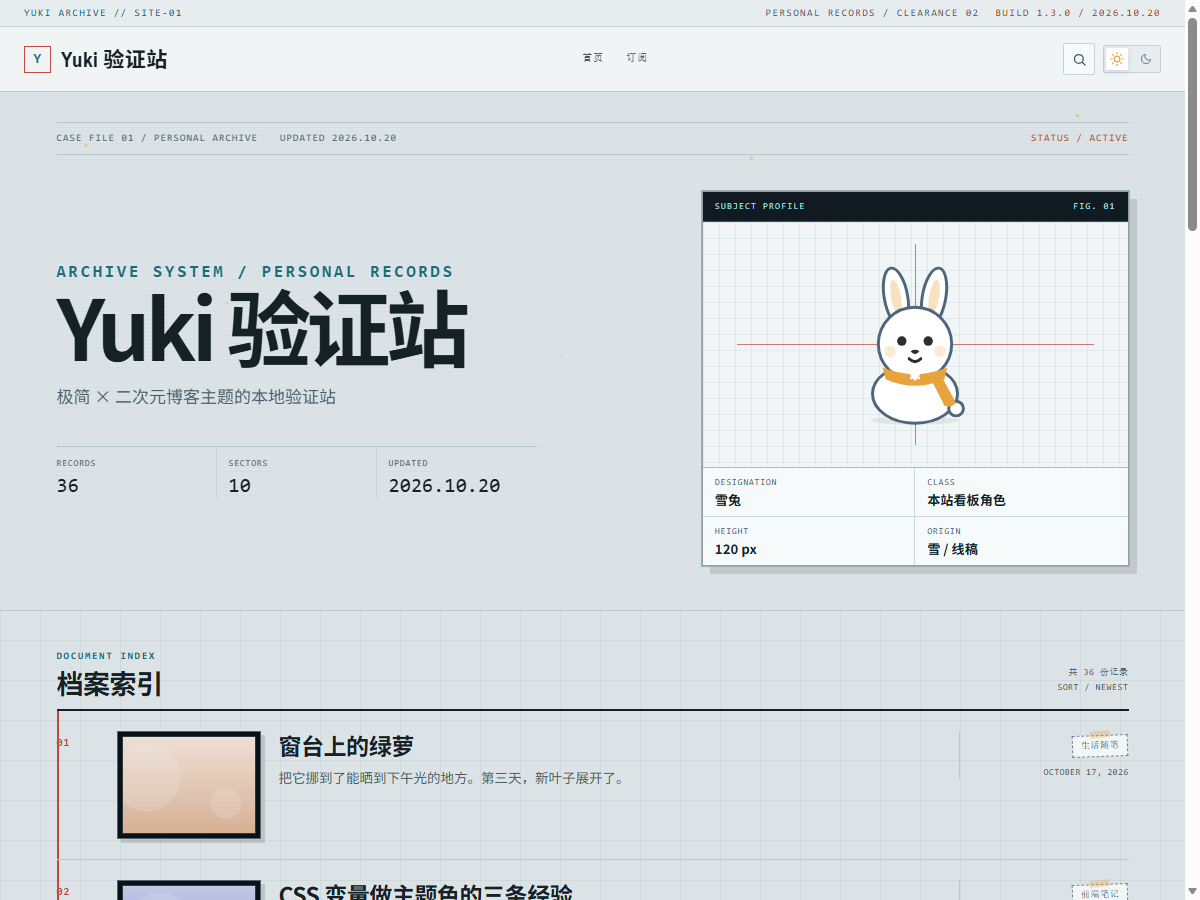
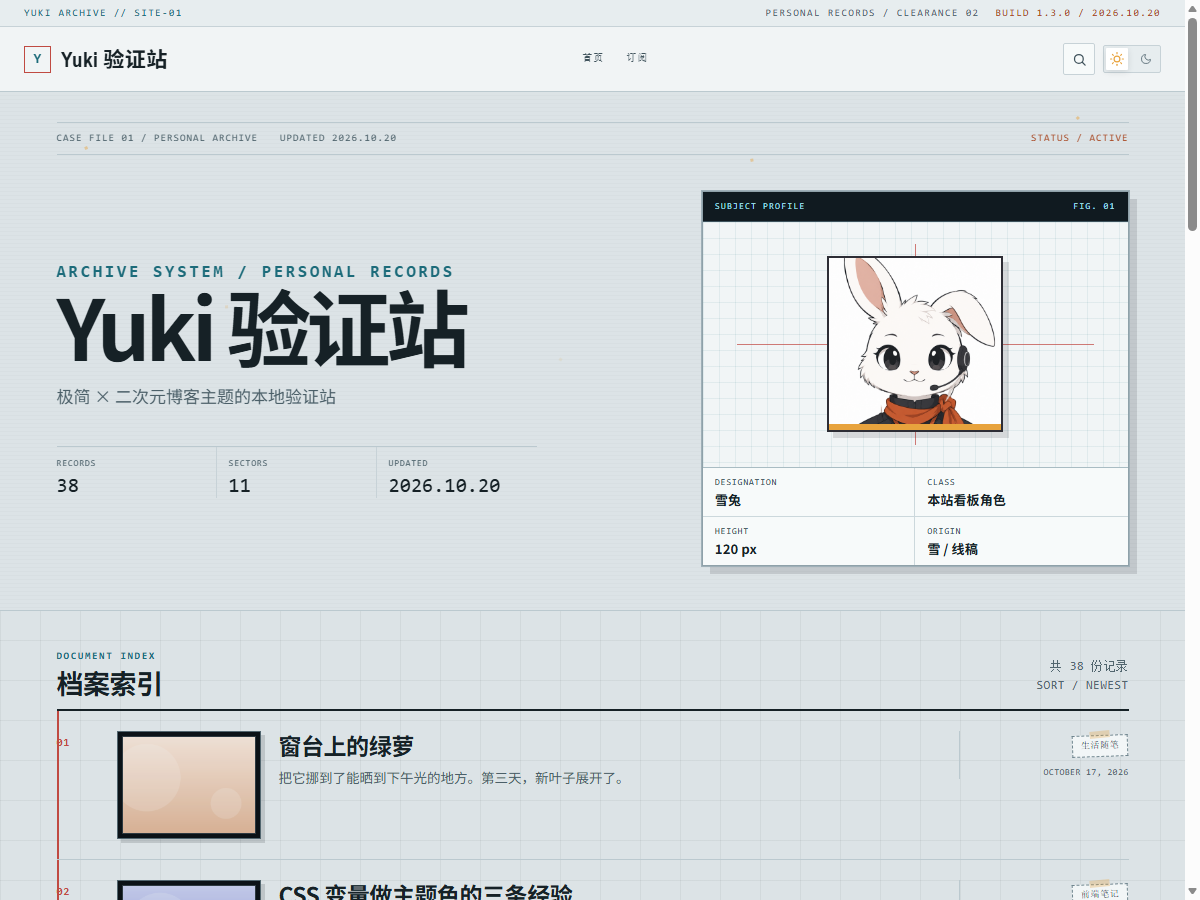
feat: 雪兔改成白底证件照卡

Changed region(s): [[0.6783, 0.28, 0.8633, 0.4978], [0.8633, 0.7156, 0.9558, 0.7778]]

diff --git a/assets/css/mascot-card.css b/assets/css/mascot-card.css
@@ -1,0 +1,46 @@
+/**
+ * 雪兔证件照卡。
+ *
+ * 角色本体是 assets/images/mascot-yuki.png；卡框和季节色条在这里。
+ * 这是纯装饰层，不改变模板语义，也不接管主题的明暗/季节切换。
+ */
+
+.yuki-mascot--photo {
+	position: relative;
+	display: block;
+	box-sizing: border-box;
+	overflow: hidden;
+	border: 1px solid #2D2D35;
+	background: #FFFFFF;
+	box-shadow: 3px 3px 0 rgba(45, 45, 53, 0.12);
+}
+
+.yuki-mascot--lg.yuki-mascot--photo {
+	border-width: 2px;
+	box-shadow: 6px 6px 0 rgba(45, 45, 53, 0.14);
+}
+
+.yuki-mascot-photo {
+	display: block;
+	width: 100%;
+	height: 100%;
+	object-fit: cover;
+	object-position: 50% 42%;
+	background: #FFFFFF;
+}
+
+.yuki-mascot-season {
+	position: absolute;
+	right: 0;
+	bottom: 0;
+	left: 0;
+	display: block;
+	width: 100%;
+	height: clamp(3px, 4%, 6px);
+}
+
+@media (prefers-reduced-motion: reduce) {
+	.yuki-mascot--photo {
+		box-shadow: none;
+	}
+}

diff --git a/assets/css/production-bible.css b/assets/css/production-bible.css
@@ -464,9 +464,9 @@ body.yuki-production-bible {
   margin: 0 0 2px;
   color: var(--yuki-blueprint-soft);
   font-family: var(--yuki-font-mono);
-  font-size: 9px;
-  letter-spacing: 0.06em;
-  line-height: 1.7;
+  font-size: 12px;
+  letter-spacing: 0.04em;
+  line-height: 1.6;
   text-align: right;
   text-transform: uppercase;
 }

diff --git a/assets/css/archive-console.css b/assets/css/archive-console.css
@@ -216,7 +216,7 @@ body.yuki-production-bible {
   border-color: #23343D;
 }
 .yuki-production-bible .yuki-sheet-meta dt {
-  color: #5B7079;
+  color: #40545C;
 }
 .yuki-production-bible .yuki-sheet-meta dd {
   color: #162126;

diff --git a/template-parts/mascot.php b/template-parts/mascot.php
@@ -1,8 +1,10 @@
 <?php
 /**
- * 雪兔：主题的二次元点缀。
+ * 雪兔：主题的二次元看板角色。
  *
- * 装饰性 SVG，语义由旁边的文字承担，所以对读屏软件隐藏。参数：
+ * 现在是一张白底证件照卡：图片负责角色，底部季节色条负责跟随季节。
+ * 整张卡是装饰性的，语义由旁边的文字承担，所以对读屏软件隐藏。
+ * 参数：
  *
  *   size  'sm'（空状态，64px）或 'lg'（hero / 404，112px）
  *   class 额外的类名（单个）
@@ -14,46 +16,16 @@ $yuki_size  = isset( $args['size'] ) && in_array( $args['size'], array( 'sm', 'l
 	? $args['size']
 	: 'sm';
 $yuki_extra = isset( $args['class'] ) ? sanitize_html_class( $args['class'] ) : '';
-$yuki_class = 'yuki-mascot yuki-mascot--' . $yuki_size . ( $yuki_extra ? ' ' . $yuki_extra : '' );
+$yuki_class = 'yuki-mascot yuki-mascot--photo yuki-mascot--' . $yuki_size . ( $yuki_extra ? ' ' . $yuki_extra : '' );
+$yuki_image = get_template_directory_uri() . '/assets/images/mascot-yuki.png';
 ?>
-<svg class="<?php echo esc_attr( $yuki_class ); ?>"
-	xmlns="http://www.w3.org/2000/svg" viewBox="0 0 120 120"
-	aria-hidden="true" focusable="false">
-	<!-- 影子 -->
-	<ellipse cx="60" cy="112" rx="30" ry="3" fill="#2D2D35" opacity=".08"/>
-
-	<!-- 身体 -->
-	<ellipse cx="60" cy="94" rx="29" ry="20" fill="#FFFFFF" stroke="var(--yuki-border)" stroke-width="2"/>
-	<!-- 尾巴 -->
-	<circle cx="88" cy="104" r="5" fill="#FFFFFF" stroke="var(--yuki-border)" stroke-width="2"/>
-
-	<!-- 耳朵 -->
-	<g stroke="var(--yuki-border)" stroke-width="2">
-		<ellipse cx="47" cy="28" rx="8" ry="20" transform="rotate(-10 47 28)" fill="#FFFFFF"/>
-		<ellipse cx="73" cy="28" rx="8" ry="20" transform="rotate(10 73 28)" fill="#FFFFFF"/>
-	</g>
-	<ellipse cx="47" cy="28" rx="3.4" ry="12" transform="rotate(-10 47 28)" fill="var(--yuki-season)" opacity=".32"/>
-	<ellipse cx="73" cy="28" rx="3.4" ry="12" transform="rotate(10 73 28)" fill="var(--yuki-season)" opacity=".32"/>
-
-	<!-- 头 -->
-	<circle cx="60" cy="60" r="25" fill="#FFFFFF" stroke="var(--yuki-border)" stroke-width="2"/>
-
-	<!-- 围巾 -->
-	<path d="M38 76 Q60 85 82 76 L80 84 Q60 93 40 84 Z" fill="var(--yuki-season)"/>
-	<path d="M78 82 L88 100 Q84 104 80 102 L72 86 Z" fill="var(--yuki-season)"/>
-
-	<!-- 脸 -->
-	<circle cx="51" cy="58" r="3.2" fill="#2D2D35"/>
-	<circle cx="69" cy="58" r="3.2" fill="#2D2D35"/>
-	<circle cx="43" cy="65" r="4" fill="var(--yuki-season)" opacity=".22"/>
-	<circle cx="77" cy="65" r="4" fill="var(--yuki-season)" opacity=".22"/>
-	<path d="M57 65 Q60 63 63 65 Q60 69 57 65 Z" fill="#2D2D35"/>
-	<path d="M56 70 Q60 74 64 70" fill="none" stroke="#2D2D35" stroke-width="2" stroke-linecap="round"/>
-
-	<!-- 围巾上的雪花 -->
-	<g stroke="#FFFFFF" stroke-width="2" stroke-linecap="round">
-		<path d="M60 79v5"/>
-		<path d="M57.5 80.5l5 2.5"/>
-		<path d="M62.5 80.5l-5 2.5"/>
-	</g>
-</svg>
+<span class="<?php echo esc_attr( $yuki_class ); ?>" aria-hidden="true">
+	<img class="yuki-mascot-photo" alt=""
+		src="<?php echo esc_url( $yuki_image ); ?>"
+		width="512" height="512" decoding="async" draggable="false">
+	<svg class="yuki-mascot-season"
+		xmlns="http://www.w3.org/2000/svg" viewBox="0 0 12 4" preserveAspectRatio="none"
+		aria-hidden="true" focusable="false">
+		<rect width="12" height="4" fill="var(--yuki-season)"/>
+	</svg>
+</span>

diff --git a/inc/production-bible.php b/inc/production-bible.php
@@ -30,6 +30,13 @@ function yuki_production_assets() {
 		array( 'yuki-production-bible' ),
 		yuki_asset_version()
 	);
+
+	wp_enqueue_style(
+		'yuki-mascot-card',
+		get_template_directory_uri() . '/assets/css/mascot-card.css',
+		array( 'yuki-archive-console' ),
+		yuki_asset_version()
+	);
 }
 add_action( 'wp_enqueue_scripts', 'yuki_production_assets', 20 );
 

diff --git a/.scratch/mascot-id-photo/spec.md b/.scratch/mascot-id-photo/spec.md
@@ -1,0 +1,78 @@
+# 雪兔改成白底证件照卡
+
+Status: ready-for-agent
+
+## Problem Statement
+
+主题现在的雪兔是一张内联 SVG 插画。它足够轻，但在数字档案的界面语言里没有“被系统收录”的感觉：
+插画浮在 `SUBJECT PROFILE` 的网格上，更像一张贴纸，而不是档案里的一张照片。读者看到的
+`SUBJECT PROFILE` 字段（DESIGNATION / CLASS / HEIGHT / ORIGIN）也没有一个真正的“照片内容”去对应。
+
+用户在看到三版矢量草稿与本机生成的 AI 胸像后，选择了 **白底证件照卡**：不追求透明背景，
+把 AI 胸像放进一张白底照片卡，卡框、阴影和季节色条由主题负责。这样既保留“雪兔”这个角色，
+又让首页的 `SUBJECT PROFILE` 与 404/空状态的角色档案看起来像同一套档案材料。
+
+## Solution
+
+把 `template-parts/mascot.php` 从内联 SVG 改成：
+
+1. 一张 `assets/images/mascot-yuki.png`（512×512，白底，不透明）作为照片内容；
+2. 外层 `<span class="yuki-mascot yuki-mascot--photo yuki-mascot--{size}">`，保持原来的
+   `.yuki-mascot` / `--sm` / `--lg` 钩子与 `aria-hidden="true"`；
+3. 内联 SVG 季节条贴在卡片底部，`fill="var(--yuki-season)"`；
+4. 新样式 `assets/css/mascot-card.css` 负责卡框、硬阴影、图片裁切和季节条，由
+   `inc/production-bible.php` 在 `archive-console.css` 之后加载。
+
+## User Stories
+
+- 作为读者，我在首页 `SUBJECT PROFILE` 里看到一张像证件照的雪兔，而不是一张浮在网格上的贴纸。
+- 作为读者，我在 404 和空归档/空搜索里仍能认出同一个角色，只是尺寸更小。
+- 作为读者，季节变化仍能被感知：卡底细色条随春/夏/秋/冬切换，但角色本人不换脸。
+- 作为使用读屏软件的读者，这张卡是纯装饰，不读出一张没有说明的图片。
+- 作为维护者，我不需要为这张卡引入构建步骤、外部字体或 CDN 图片。
+
+## Implementation Decisions
+
+- **固定白底，不做透明抠图**。`gpt-image-2` 不支持透明背景；胸像的白毛与白底连通，泛洪抠图会
+  把脸一起抠掉。白底本身就是照片纸，卡框负责边界。
+- **图片只保留一张 512×512 PNG**，由 AI 胸像裁掉左右白边后缩放。所有尺寸共用同一张图，浏览器
+  缓存一次；`width`/`height` 固定，避免布局抖动。
+- **卡片是装饰性的**：外层 `aria-hidden="true"`，`img` 用空 `alt`；语义由旁边的
+  `SUBJECT PROFILE` / 字段表承担。
+- **季节色只走卡底**：SVG 条 `viewBox="0 0 12 4"`、`preserveAspectRatio="none"`，CSS 高度
+  `clamp(3px, 4%, 6px)`；角色围巾固定橙色，不再随季节变色，避免“换季换角色”的错觉。
+- **卡框语法**：1px 墨色边框 + 3px 硬阴影；hero 用 2px 边框 + 6px 硬阴影；`prefers-reduced-motion`
+  下去掉阴影。圆角保持 0，和数字档案的 2px 直角语汇一致。
+- **不改 `style.css`**：新样式放独立文件，避免触碰共享的全局 token 与并行会话 hold。
+- **`verify-mascot` 需要同步**：原来要求 `class="yuki-mascot` 直接出现在 `<svg>` 上；现在外层是
+  `<span>`，季节条才是 SVG。测试改为检查图片卡、图片来源、`aria-hidden` 和季节条。
+- **`verify-season` 不变**：静态仍能匹配 `var(--yuki-season)`，运行时仍能查到
+  `[fill="var(--yuki-season)"]` 并量到当前季节色。
+
+## Testing Decisions
+
+- `node tests/bin/verify-mascot.mjs`：模板结构、图片文件存在、图片来源是本站、HTTP 四类页面
+  （首页 / 404 / 空归档 / 空搜索）、hero 176px、404 96px、640px 不横向滚动、深色下有尺寸。
+- `node tests/bin/verify-season.mjs`：卡底季节条 computed fill 等于当前 season。
+- `node tests/bin/verify-ui-redesign.mjs`：数字档案外壳与文档面板没有被这张卡破坏。
+- `node tests/bin/verify-stickers.mjs`：空状态气泡仍是 16px 白卡，不被照片卡样式影响。
+- `node tests/bin/make-screenshot.mjs`：1200×900 主题截图里能看到新卡；`verify-screenshot` 继续
+  接受“深色控制台外壳 + 浅色文档面”的混合画面。
+- 全套 29 个 `tests/bin/verify-*.mjs`、`verify-package.mjs`、`wptk check`。
+
+## Out of Scope
+
+- 透明背景 PNG / 抠图；`gpt-image-2` 当前不支持。
+- 每个季节一张不同立绘；季节只换色条。
+- 用 AI 图替换头像、文章缩略图或站点图标。
+- 为照片卡增加新的后台设置。
+- 改 `style.css` 的全局 token 或主题版本号。
+
+## Further Notes
+
+- 图片由本机 image-gen 生成（`gpt-image-2`，1024×1024 白底），裁掉左右白边后缩到 512×512；
+  源图只留在临时目录，不随主题发布。
+- 卡底季节条是新的“季节装饰”入口；`DESIGN.md` 里“雪兔耳朵/脸颊/围巾随季节”的旧说明已同步改成
+  “只有卡底色条随季节”。
+- 这张卡不解决“雪兔是否要更矢量/更扁平”的问题；它只是把现有角色放进档案系统。如果以后要换插画，
+  替换 `assets/images/mascot-yuki.png` 即可，模板和测试不需要重写。

diff --git a/.scratch/mascot-id-photo/issues/01-mascot-id-photo.md b/.scratch/mascot-id-photo/issues/01-mascot-id-photo.md
@@ -1,0 +1,44 @@
+# 01 · 白底证件照卡
+
+Status: ready-for-agent
+
+## What to build
+
+把 `template-parts/mascot.php` 从内联 SVG 插画改为白底证件照卡：AI 胸像图片 + 卡框/阴影 +
+底部季节色条。所有旧尺寸钩子、`aria-hidden`、首页/404/空状态调用位置保持不变。
+
+## 范围
+
+- `assets/images/mascot-yuki.png`：512×512、白底、不透明，由 `ai-id-photo.png` 裁掉左右白边后缩放。
+- `template-parts/mascot.php`：`<span class="yuki-mascot yuki-mascot--photo yuki-mascot--{size}">`
+  包 `<img class="yuki-mascot-photo">` 和内联季节条 SVG。
+- `assets/css/mascot-card.css`：卡框、硬阴影、`object-fit`、季节条高度、reduced-motion。
+- `inc/production-bible.php`：在 `yuki-archive-console` 之后入队 `yuki-mascot-card`。
+- `tests/bin/verify-mascot.mjs`：从“内联 SVG”改为“图片卡 + 季节条”。
+- `DESIGN.md`：季节只走卡底；雪兔改成方形照片卡。
+- `.scratch/mascot-id-photo/spec.md`：本工单依据。
+
+## Blocked by
+
+无。用户已经选定白底证件照卡（m02465），AI 胸像已生成。
+
+## 验收
+
+- [x] 模板输出 `.yuki-mascot yuki-mascot--photo`，外层 `aria-hidden="true"`，图片 `alt=""`。
+- [x] 图片来源为 `assets/images/mascot-yuki.png`，不是远程 URL。
+- [x] 卡片内有 `fill="var(--yuki-season)"` 的季节条。
+- [x] 首页 hero 的卡宽 176px、404 为 96px、640px 下仍有尺寸且不横向滚动。
+- [x] 深色主题下卡片仍可见，卡框/阴影不塌。
+- [x] `verify-mascot` 31/31、`verify-season` 23/23、`verify-ui-redesign` 58/58。
+- [x] `verify-stickers` 24/24 不被空状态照片卡破坏。
+- [x] `verify-screenshot` 16/16；`screenshot.png` 重拍后能看到新卡。
+- [x] `verify-package` 65/65；`wptk check` 0 error / 0 warning / 8 info。
+- [ ] 全套 29 个 `verify-*.mjs` 全绿；当前 28/29，`verify-harness` 被 8099 端口占用挡住。
+- [x] 只提交本工单路径；`ui-redesign/` 临时文件不提交。
+
+## Comments
+
+- 实现：`template-parts/mascot.php` 改为白底照片卡；`assets/images/mascot-yuki.png` 由 AI 胸像裁掉左右白边后缩到 512×512；`assets/css/mascot-card.css` 负责卡框、硬阴影与底部季节条；`inc/production-bible.php` 在 `archive-console.css` 之后加载。
+- 测试：`verify-mascot` 改为检查图片来源、`aria-hidden` 和季节条；31/31。`verify-season` 23/23（卡底仍是 `var(--yuki-season)`）。`verify-ui-redesign` 58/58；`verify-stickers` 24/24；`verify-screenshot` 16/16；全量 28/29 通过，`verify-package` 65/65，`wptk check` 0 error / 0 warning / 8 info。
+- 已知环境边界：`verify-harness` 未通过，因为本机 8099 端口被另一个会话的 `serve_vega` 占用，stub 起不来；不是主题改动导致。其余 28 个脚本全绿。
+- 视觉：首页 hero 176px 卡、404 96px 卡、深色主题下卡框仍可见；`screenshot.png` 已重拍为 1200×900。

diff --git a/DESIGN.md b/DESIGN.md
@@ -80,8 +80,10 @@
 | 冬 | #A5B4FC（主色） |
 
 - 按站点时区的月份自动切换（3–5 春、6–8 夏、9–11 秋、其余冬）。
-- **只用于装饰**：雪兔的耳朵/脸颊/围巾、分类标签的胶带。正文、链接、按钮、主题开关仍用
+- **只用于装饰**：雪兔照片卡底部的季节色条、分类标签的胶带。正文、链接、按钮、主题开关仍用
   `--yuki-primary`，不随季节变。
+- 雪兔本体是一张固定白底的证件照：脸部、耳麦、深色制服与围巾不随季节换色；季节只由卡底
+  3–6px 色条表达。白底是照片纸本身，不再追求透明 PNG。
 
 ## 布局
 
@@ -114,7 +116,8 @@
 
 ## 圆角 / 阴影
 
-- 数字档案层：卡片/文档面板/输入/按钮/标签统一 2px，只有头像、雪兔和主题开关保留圆形。
+- 数字档案层：卡片/文档面板/输入/按钮/标签统一 2px；头像与主题开关保留圆形，雪兔改成方形
+  白底照片卡，边框 1px（hero 2px），带 3–6px 的硬阴影。
 - 旧契约的空状态气泡仍保留 16px 圆角与白卡，避免破坏 `verify-stickers`；这是唯一例外。
 - 旧交互控件（主题开关、灯箱关闭按钮）保留原有 pill/圆形，不为了统一而缩成直角。
 - 阴影极轻（alpha ≤ 0.12），hover 只上浮 1px；档案行 hover 只换底色，不做卡片浮起。
@@ -127,7 +130,10 @@
 - **文章列表**：宽屏四列 `42px 编号 / 144px 证据板 / 正文 / 170px 分类与日期`，项间 1px
   冷色分隔线；无缩略图时显示 `NO KEY FRAME` 虚线框。640px 以下收成三列，分类/日期落到正文下方。
 - **首页封面**：7fr 文字 + 5fr 角色档案；左侧 `CASE FILE 01 / PERSONAL ARCHIVE`、标题、
-  简介、RECORDS/SECTORS/UPDATED；右侧 `SUBJECT PROFILE`（雪兔 + 十字定位线 + 字段表）。
+  简介、RECORDS/SECTORS/UPDATED；右侧 `SUBJECT PROFILE`（白底雪兔照片卡 + 十字定位线 + 字段表）。
+- **雪兔照片卡**：`assets/images/mascot-yuki.png`（512×512 PNG），`img` 填满卡面，
+  `object-position: 50% 42%`；卡底内联 SVG 季节条用 `var(--yuki-season)`，整卡 `aria-hidden`，
+  不参与语义。
 - **单篇**：`DOCUMENT / SECTOR / STATUS` 档案条与正文列左对齐，正文约 722px，侧栏 300px；
   featured 图下沿有 `EVIDENCE / PLATE 01` 帧标。
 - **归档/搜索/404**：`RECORDS / BACK MATTER`、`RECORDS / SEARCH`、`FILE NOT FOUND`；

diff --git a/.scratch/roadmap/map.md b/.scratch/roadmap/map.md
@@ -133,6 +133,9 @@ SECTOR/STATUS + EVIDENCE、归档/搜索/404/侧栏/footer 同一套档案语言
   浅色状态栏/导航/首页与归档 hero 改冷灰，深色模式保留控制台外壳；侧栏与页脚仍是深色块。
   `archive-console.css` 新增 `html:not(.dark)` 覆盖，`verify-ui-redesign` 扩到 58/58；
   同时修了无头 Edge 关闭时临时 profile 的 EPERM 清理，29 个脚本与 package 65/65 全绿。
+- 2026-10-20：雪兔改为 **白底证件照卡**：AI 胸像 `assets/images/mascot-yuki.png`
+  + 卡框/硬阴影 + 卡底季节色条；不再追求透明抠图，季节只走色条，角色本体固定。
+  `verify-mascot` 改为图片卡断言，`verify-season` 继续验卡底颜色；`DESIGN.md` 同步。
 - 测试基建另有一张 `comment-submit-ajax/issues/04-browser-retry-flake.md`，不挡路线图。
 
 ## Fog
